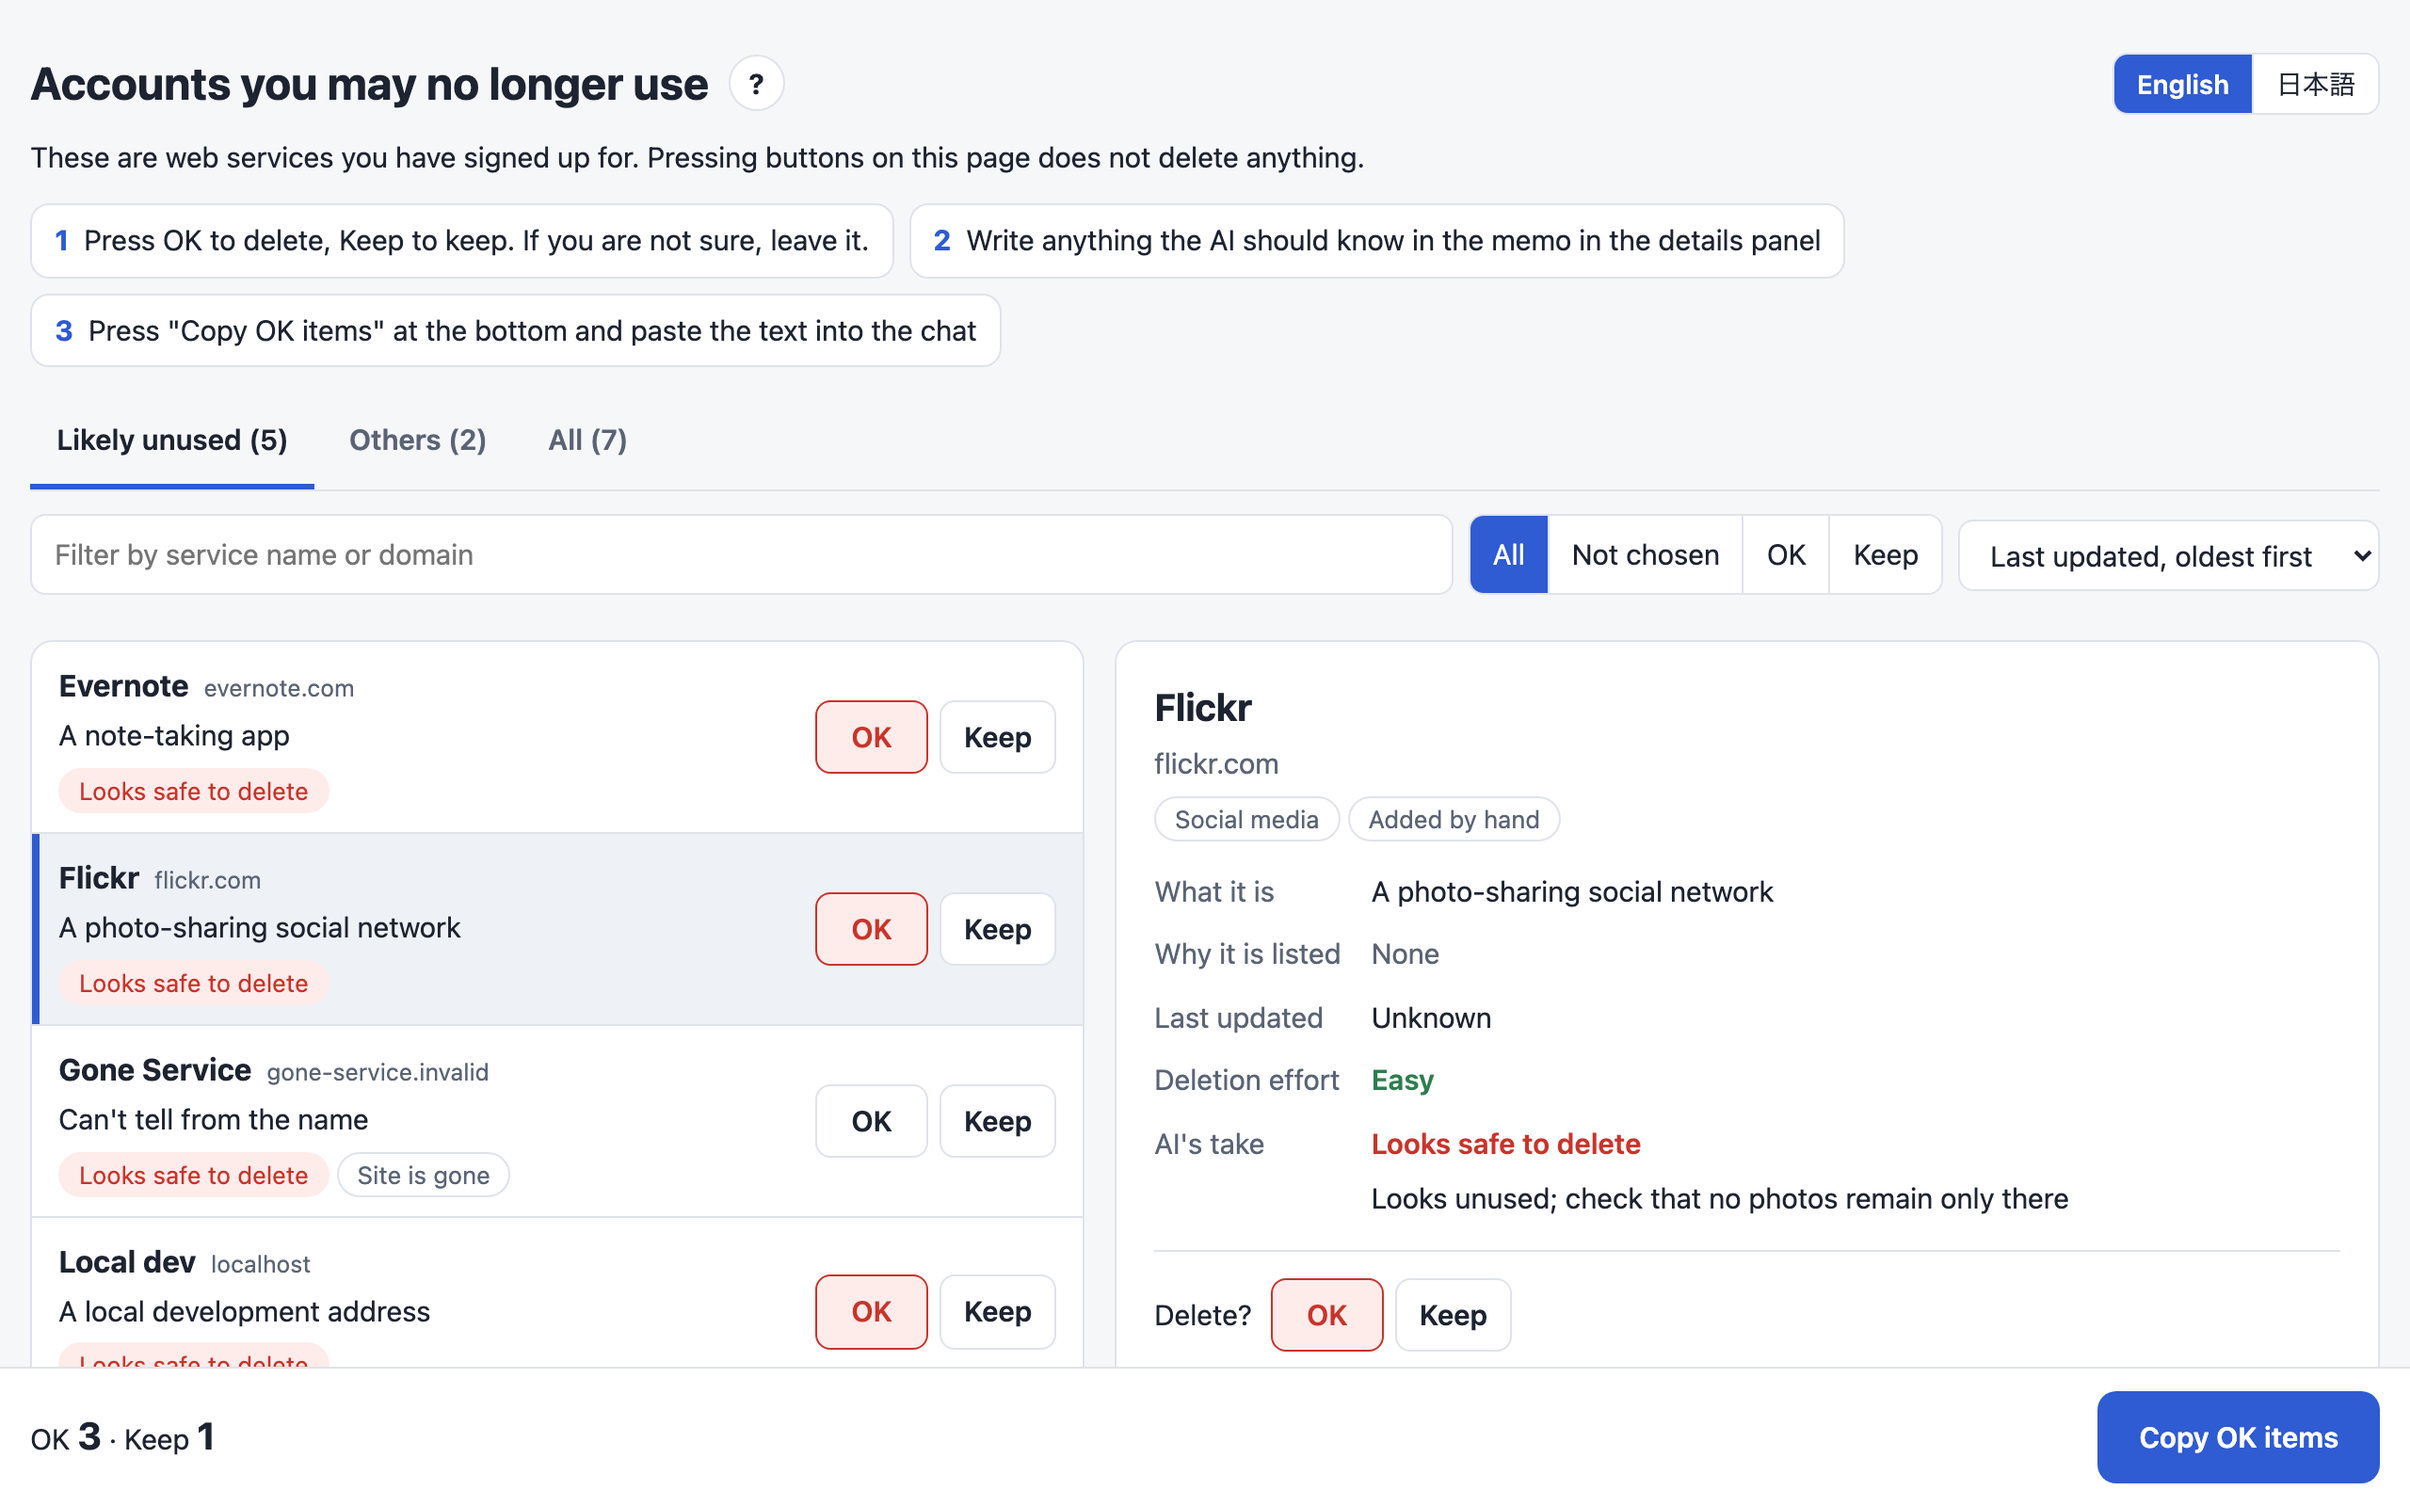
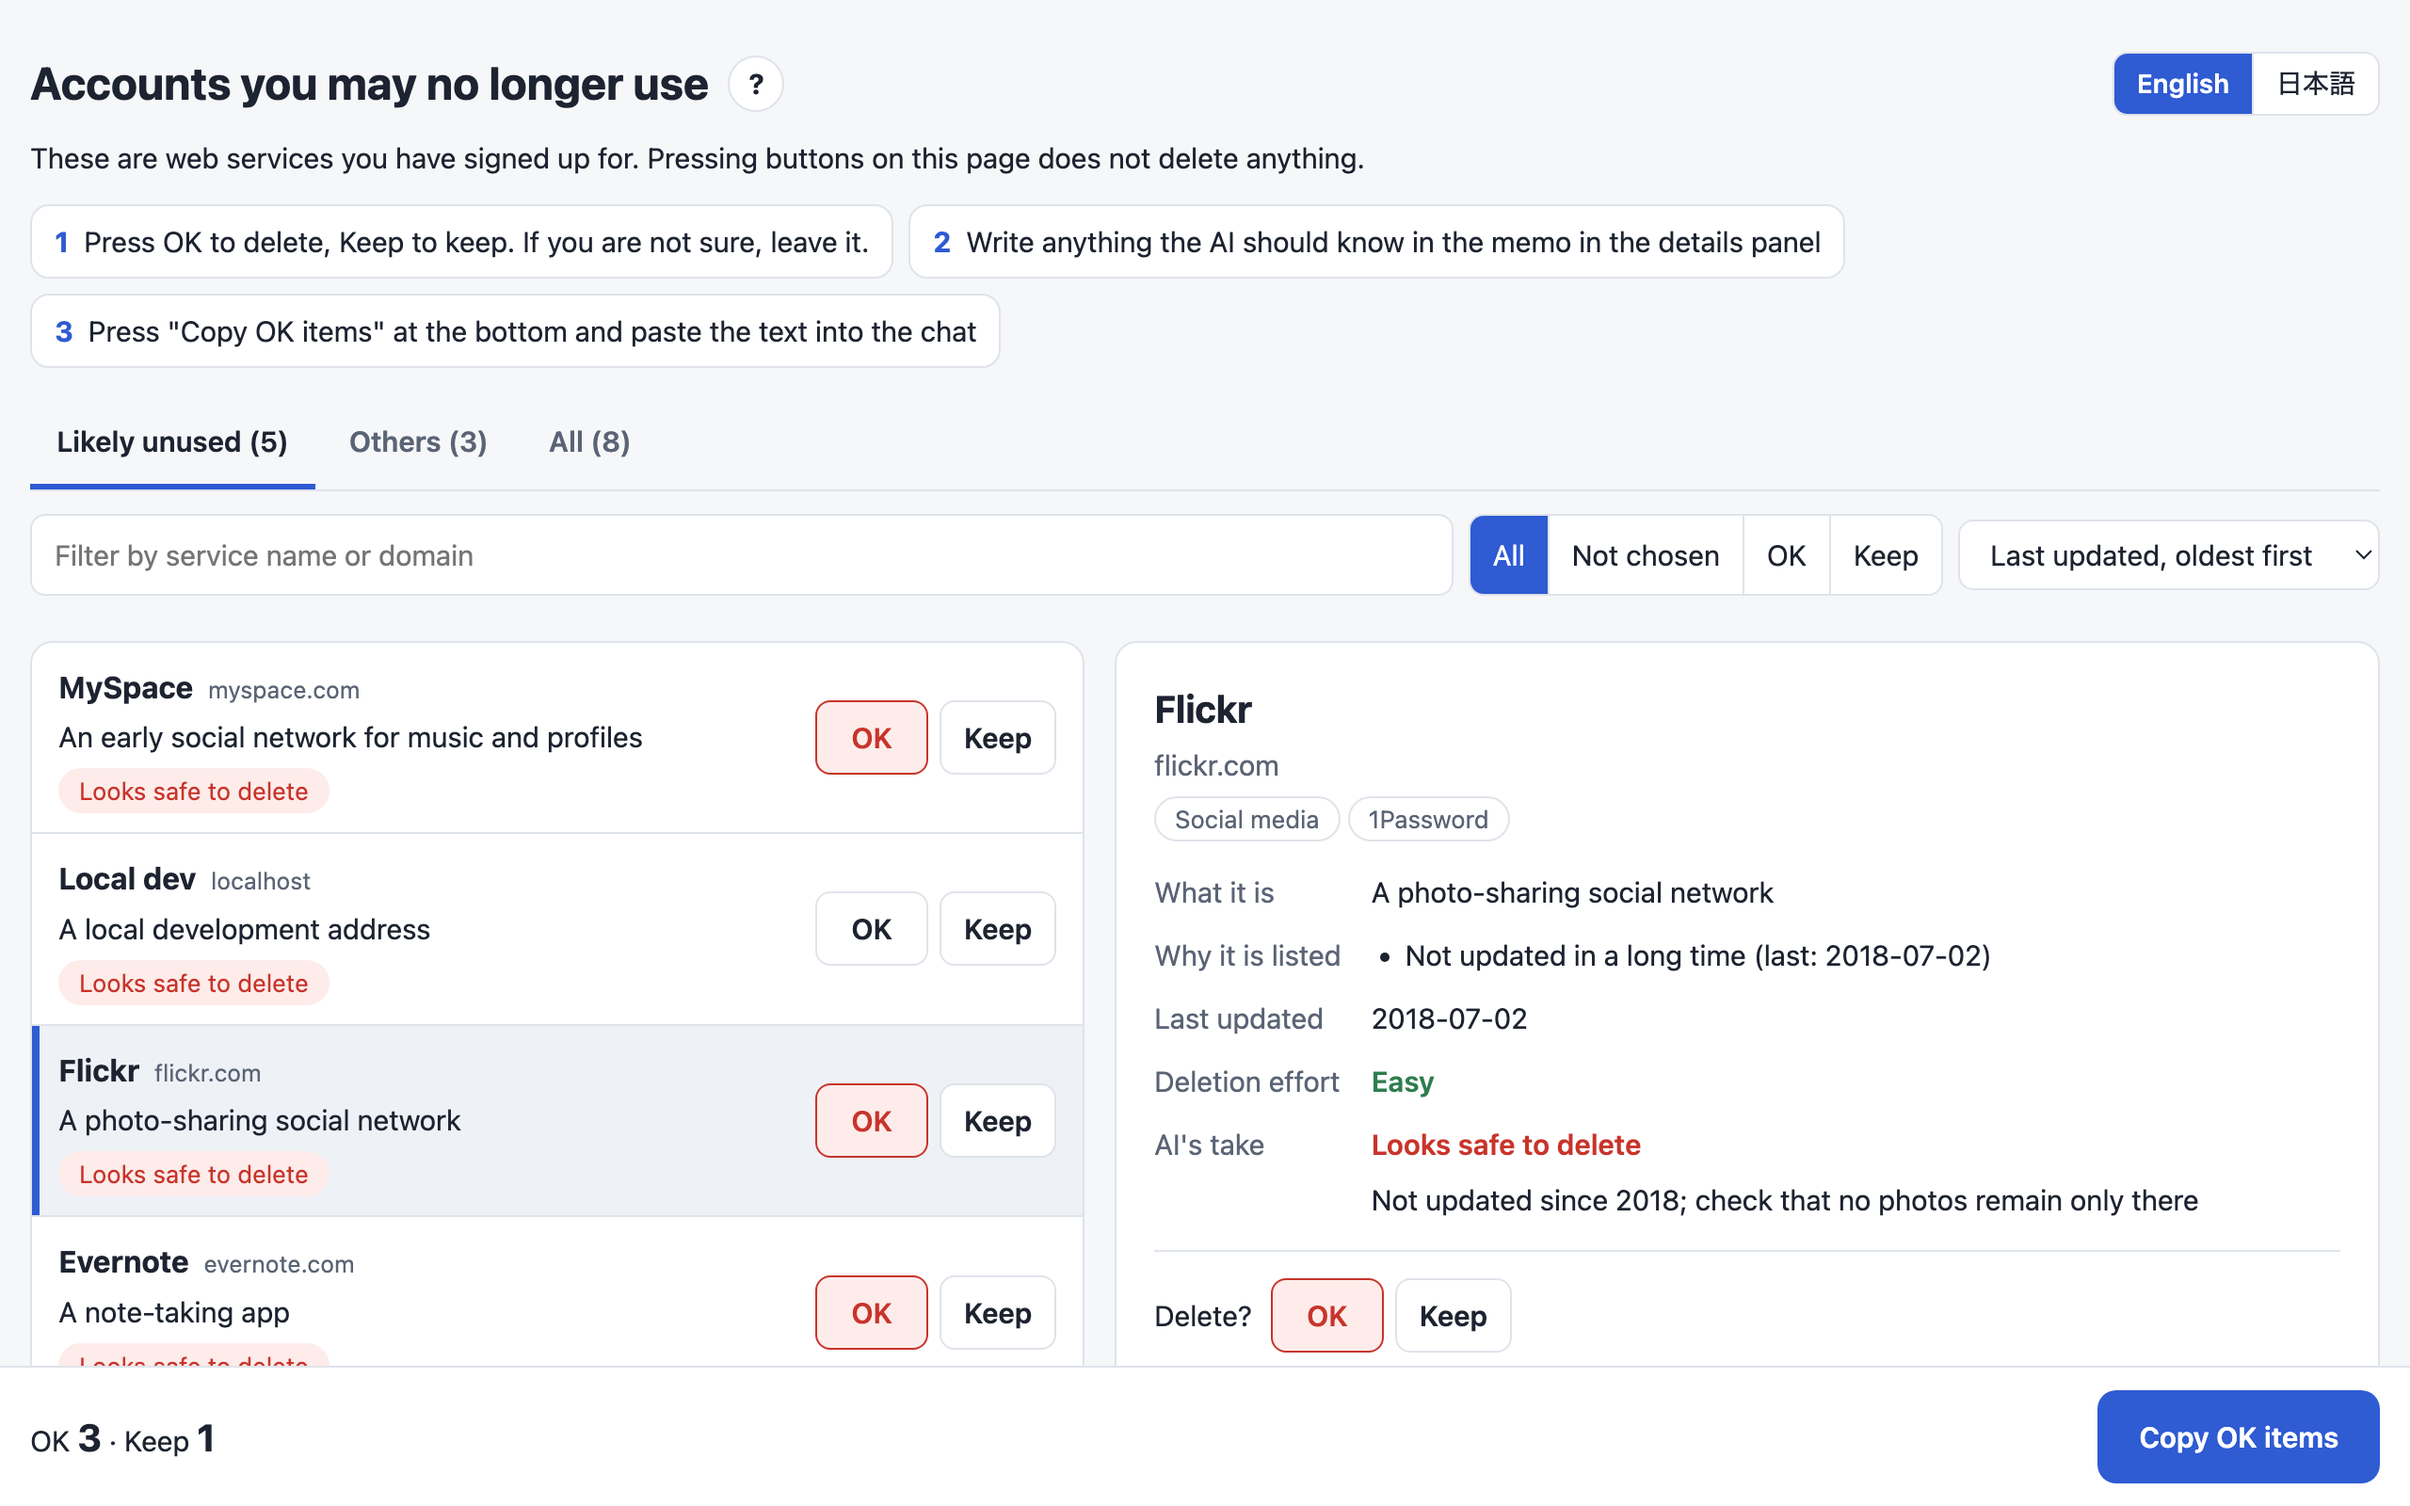
📝 docs(account-cleanup): take the README's screenshot from a sheet the scripts built (#88)
The old screenshot had a placeholder service on an .invalid domain, and
its selected item, Flickr, showed no reason and no date. The new one is
the sheet that prepare.sh --rebuild and annotate.sh built in a throwaway
data folder from a sample list of real services, with the picks stored
as the browser keeps them. Its details panel shows Flickr with the reason
"Not updated in a long time" and the date 2018-07-02.

diff --git a/plugins/account-cleanup/CHANGELOG.md b/plugins/account-cleanup/CHANGELOG.md
@@ -5,6 +5,8 @@ Versions follow semantic versioning: a major release changes how the plugin is c
 
 ## [Unreleased]
 
+- The README's screenshot is the candidate sheet the scripts built from a sample list of real services, and its details panel shows a reason and a date
+
 ## [0.2.0] - 2026-11-12
 
 - Works in GitHub Copilot CLI, Gemini CLI, and other agents that read `SKILL.md`, and the README shows how to install it there
